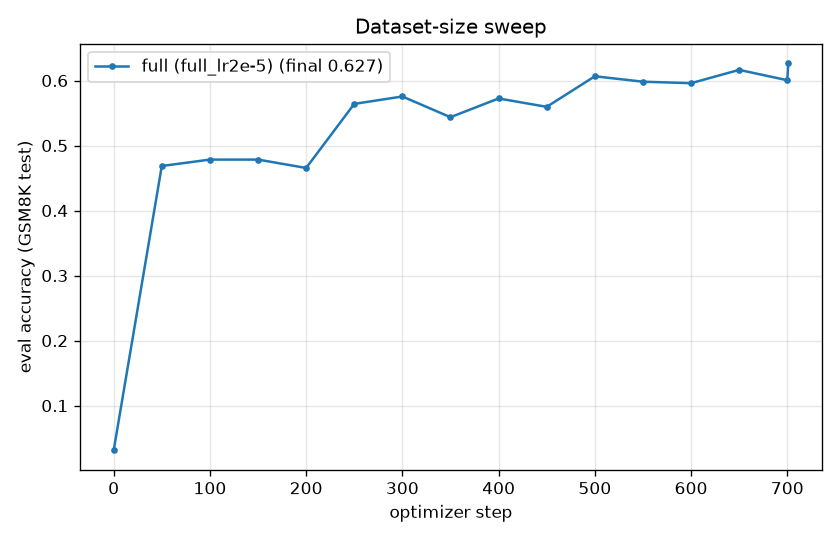
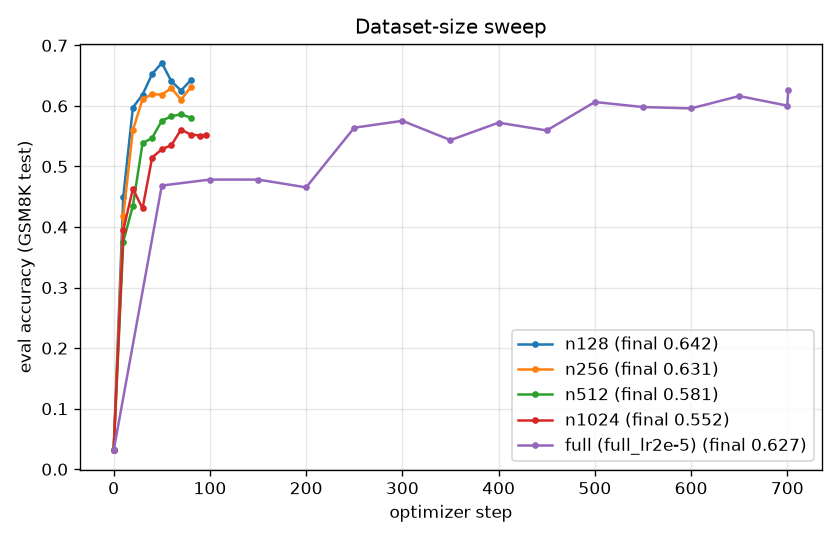
Experiments for dataset size.

diff --git a/SFT_EXPERIMENTS.md b/SFT_EXPERIMENTS.md
@@ -23,6 +23,8 @@ Rule: run one solid experiment first, look at it, then decide what to run next. 
 - The shell's default `HF_HOME` (`/work/hdd/bghp/huggingface_cache`) is not readable; the job script overrides it.
 - SLURM: `jobs/sft.slurm` (account `bhag-delta-gpu`, partition `gpuA100x4-interactive`, 2 GPUs, 16 CPU, 64G,
   **1h max**). Logs in `outputs/slurm/`. Interactive is used on purpose: starts in minutes vs days.
+  QOS `gpua100x4intqos`: **max 2 submitted, 1 running per user** -> runs are sequential. `jobs/submit_when_free.sh`
+  (run with setsid nohup) feeds queued runs in as slots free up; log in `outputs/slurm/submitter.log`.
   ```
   sbatch -J <run> jobs/sft.slurm --run-name <run> --attn-implementation flash_attention_2 --n-eval-examples 1319 --seed 0 [...]
   ```
@@ -68,6 +70,10 @@ Git: `.gitignore` tracks only `outputs/**/*.md`, `outputs/sft/*.png` and `output
 | run | final acc | best acc | final format | wall time | notes |
 |---|---|---|---|---|---|
 | **full_lr2e-5** (job 22453531) | **62.7%** | 62.7% | 99.5% | 31.6 min | 701 steps; train 20.8 min, 16 evals 7.6 min |
+| n128 (job 22489052) | 64.2% | 67.1% @50 | 97.5% | 9.2 min | 20 ep, 80 steps; train loss -> 0.000, entropy 0.13 |
+| n256 (job 22489053) | 63.1% | 63.1% @80 | 98.9% | 7.6 min | 10 ep, 80 steps; train loss -> 0.000, entropy 0.14 |
+| n512 (job 22491310) | 58.1% | 58.6% @70 | 96.1% | 8.4 min | 5 ep, 80 steps; train loss 0.08, entropy 0.32 |
+| n1024 (job 22491367) | 55.2% | 56.1% @70 | 97.5% | 10.9 min | 3 ep, 96 steps; train loss 0.25, entropy 0.42 |
 | smoke (job 22453391) | 26.6% (64 ex) | 26.6% | 62.5% | 3.0 min | 4 steps; step 1.8 s, 64-ex eval 8-12 s, startup ~2.3 min |
 | smoke (job 22453139) | FAILED | — | — | 4.5 min | crashed after step-0 eval (acc 3.1%, fmt 25% on 64 ex) |
 
@@ -96,11 +102,29 @@ max_grad_norm=1.0 clip is active on every step -> updates are effectively lr * u
   but remain longer. Long answers are a signal of the model being wrong.
 - Plots: `outputs/sft/phase1_lr_sweep_metrics.png` (acc, format, length correct/incorrect, entropy, loss, grad norm).
 
+### Dataset-size sweep notes (2026-09-27), lr 2e-5, bs 32, ~80 steps each
+- Result is NOT monotonic in data size: n128 64.2% ~ n256 63.1% ~ full 62.7% > n512 58.1% > n1024 55.2%.
+  Accuracy tracks *how much the run memorized / how low its entropy got* more than how many unique examples it saw:
+  n128/n256 (10-20 epochs) drive train loss to ~0 and entropy to ~0.13; n512/n1024 (3-5 epochs) don't.
+- Leading hypothesis: eval samples at **T=1.0**, which rewards a confident (low-entropy) model: it samples almost
+  greedily, so fewer random slips. Memorizing a tiny set sharpens the distribution -> higher T=1 accuracy, not
+  necessarily more knowledge. The full run (entropy 0.35) pays that sampling tax.
+- 128 examples are enough to teach the format (all runs reach 96-99% format within ~20 steps) and to unlock most
+  of what Qwen2.5-Math already knows ("superficial alignment" / LIMA-style).
+- Equal-compute comparison at step ~80: the full run was ~47% while the small runs were 55-64%. Confound: the small runs'
+  cosine schedule has decayed to 0 by step 80 (annealed), while the full run at step 80 is still at peak LR.
+- Mild overfitting only for n128 (peak 67.1% at step 50 -> 64.2% at step 80); entropy starts rising again at the end.
+- Length: wrong answers stay much longer than correct ones in every run (correct ~90 tokens in all runs).
+- Next to disentangle: **greedy (T=0) eval** of the final models (needs --save-model or a configurable eval
+  temperature), and a 2nd seed for n128/n256 (subset variance).
+
 ## TODO / possible experiments
 - [x] Smoke test (128 ex, 1 epoch, 64 eval)
 - [x] First solid run: `full_lr2e-5` -> 62.7% final
-- [ ] Rest of Phase 1: lr 1e-5, 5e-5, bs64
-- [ ] Phase 2 dataset-size sweep
+- [~] Rest of Phase 1: lr 1e-5, 5e-5, bs64 -- skipped by choice (15% target already met; not needed for interview prep)
+- [x] Dataset-size sweep n128/n256/n512/n1024 (+ full) -> see notes
+- [ ] 2nd seed for n128/n256 (which 128 examples matters)
+- [ ] Wrong-answer ablation: corrupt final answers in 0/25/50% of SFT targets (needs a data-loader flag)
 - [ ] Greedy (T=0) eval of the final checkpoint, to separate "learned the task" from sampling noise
 - [ ] Filtered SFT / expert iteration (A5 §4.4 / §5): keep only correct model-generated traces
 - [ ] Look at failure modes in `outputs/sft/<run>/eval/step_*.jsonl`: format errors vs wrong answers, length
